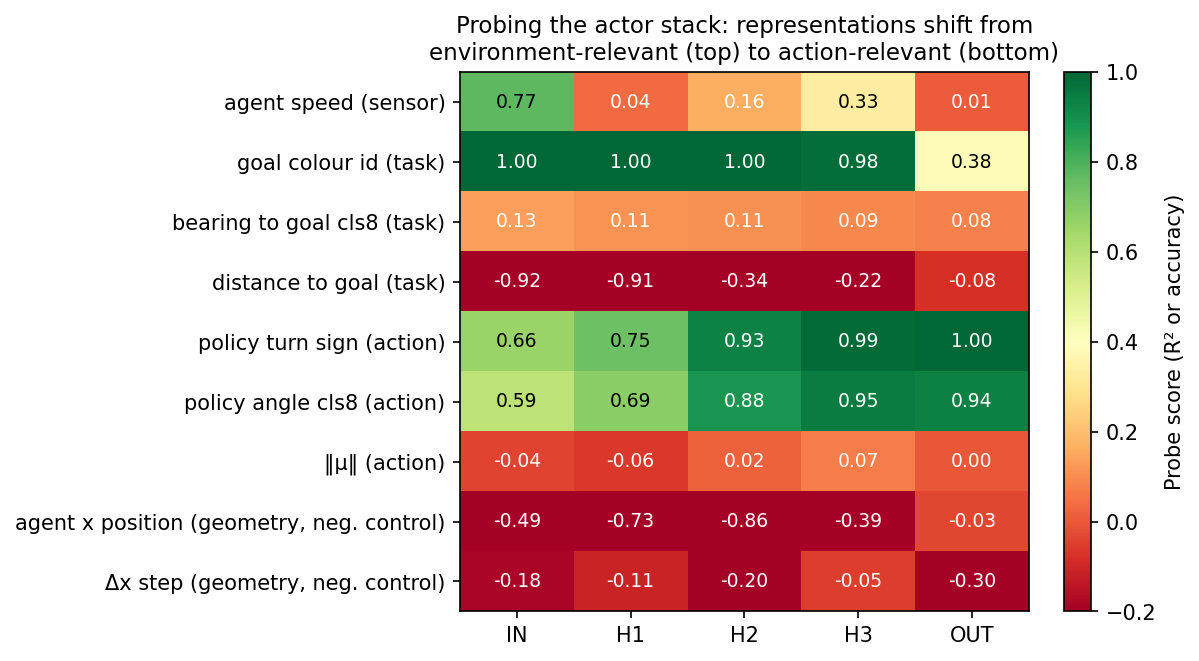
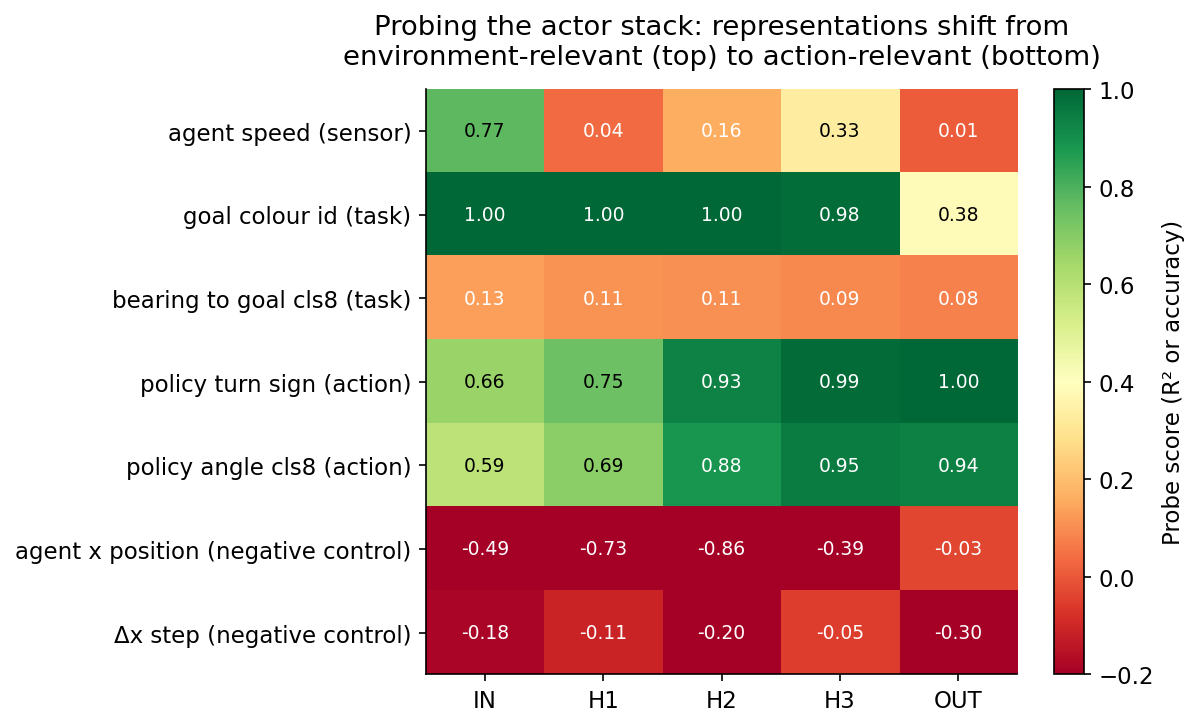
Blogpost V2: structural and writing pass
Structural:
- Reorder §4: steering (§4.1) and goal-switch (§4.2) lead; the
  inconclusive 1D project-out is demoted to §4.3 with a one-paragraph
  caveat instead of three sub-bullets and two figures.
- Add architecture diagram (figure 00) at the end of §1 to anchor §3
  and §4's references to env_emb / ltl_emb / IN / H1-H3 / OUT.
- Promote the bearing-vs-policy-angle finding from a one-line bullet
  in §3.1 to a paragraph + a §6 call-back. (The clearest single piece
  of evidence in the post for the heuristic account.)

Summary rewrite:
- Bullet 1 leads with the headline 50% optimal / 93% success / "43% of
  episodes succeed via the non-optimal path" — the cleanest one-line
  statement of the central finding.
- Bullets reordered to put the new (sprint) findings up top.

Figures:
- Drop ||μ|| and "distance to goal" rows from the actor-stack heatmap;
  both contributed only noise.
- Drop the MEG figure — moved to a single sentence in §7.
- Fix title-overlap on goal-switch figure.
- Move legend out of the bar area on macro-world-model figure.

Writing:
- Add bridge sentence between §2 and §3.
- Reframe §3.2 to lead with the meaningful number (R² ≈ 0.97 at switches)
  rather than the trivial within-link 1.0.
- Acknowledge §6's macro-world-model saturation directly: most matrix
  cells are 1.00, so the test is easy; the unsaturated cells and the
  depth-3 prediction are where it has to work, and it does.
- Tighten §5: remove ambiguous "stays at ~50%"; clarify that all
[…]

Changed region(s): [[0.0, 0.0, 0.9875, 0.9985]]

diff --git a/interpretability/blogpost/scripts/architecture_diagram.py b/interpretability/blogpost/scripts/architecture_diagram.py
@@ -1,0 +1,123 @@
+"""Architecture diagram for the DeepLTL agent.
+
+Boxes-and-arrows: env_obs → env_net → env_emb (64d); LTL_seq → LTL_net (GRU)
+→ ltl_emb (32d); concat → 96-d combined → actor.enc[H1, H2, H3] (each 64d)
+→ μ (2d). Saved as figures/00_architecture.png.
+"""
+import os
+
+import matplotlib.patches as mpatches
+import matplotlib.pyplot as plt
+from matplotlib.patches import FancyArrowPatch
+
+HERE = os.path.dirname(os.path.abspath(__file__))
+FIG_DIR = os.path.abspath(os.path.join(HERE, "..", "figures"))
+
+
+def box(ax, x, y, w, h, label, fc, ec="black", text_fontsize=10, lw=0.8):
+    rect = mpatches.FancyBboxPatch(
+        (x, y), w, h,
+        boxstyle="round,pad=0.02,rounding_size=0.05",
+        linewidth=lw, edgecolor=ec, facecolor=fc,
+    )
+    ax.add_patch(rect)
+    ax.text(x + w / 2, y + h / 2, label,
+            ha="center", va="center", fontsize=text_fontsize)
+
+
+def arrow(ax, x0, y0, x1, y1, text=None, text_offset=(0, 0.07), color="black",
+          lw=1.0):
+    a = FancyArrowPatch((x0, y0), (x1, y1),
+                        arrowstyle="-|>",
+                        mutation_scale=12,
+                        linewidth=lw,
+                        color=color)
+    ax.add_patch(a)
+    if text:
+        ax.text((x0 + x1) / 2 + text_offset[0],
+                (y0 + y1) / 2 + text_offset[1],
+                text, ha="center", va="bottom", fontsize=8.5,
+                color="#444", style="italic")
+
+
+def main():
+    fig, ax = plt.subplots(figsize=(10, 4.4))
+    ax.set_xlim(0, 12)
+    ax.set_ylim(0, 5)
+    ax.set_aspect("equal")
+    ax.axis("off")
+
+    # Colour palette
+    INPUT = "#cfe9f7"
+    NET = "#bee3bd"
+    EMB = "#fff2c8"
+    HID = "#fde2c4"
+    OUT = "#f7d0d0"
+    PLAN = "#e2d5f0"
+
+    # -- Top row: environment branch
+    box(ax, 0.2, 3.5, 1.6, 0.8, "lidar +\nproprio.\n(80-d)", INPUT)
+    box(ax, 2.4, 3.5, 1.4, 0.8, "env_net\n(MLP)", NET)
+    box(ax, 4.4, 3.5, 1.6, 0.8, "env_emb\n(64-d)", EMB)
+    arrow(ax, 1.8, 3.9, 2.4, 3.9)
+    arrow(ax, 3.8, 3.9, 4.4, 3.9)
+
+    # -- Bottom row: LTL branch
+    box(ax, 0.2, 1.7, 1.6, 0.8, "LTL formula\n→ automaton\nstates", INPUT)
+    box(ax, 2.4, 1.7, 1.4, 0.8, "LTL_net\n(DeepSets+GRU)", NET)
+    box(ax, 4.4, 1.7, 1.6, 0.8, "ltl_emb\n(32-d)", EMB)
+    arrow(ax, 1.8, 2.1, 2.4, 2.1)
+    arrow(ax, 3.8, 2.1, 4.4, 2.1)
+
+    # planner brief annotation
+    ax.text(3.1, 1.45, "(includes search over plans)",
+            ha="center", fontsize=8, color="#666", style="italic")
+
+    # -- Concat
+    box(ax, 6.4, 2.6, 1.4, 0.8, "concat\n(96-d)", PLAN)
+    arrow(ax, 6.0, 3.9, 6.4, 3.2, lw=0.9)
+    arrow(ax, 6.0, 2.1, 6.4, 2.85, lw=0.9)
+
+    # -- Actor MLP H1, H2, H3
+    box(ax, 8.2, 2.6, 0.7, 0.8, "H1\n64", HID, text_fontsize=9)
+    box(ax, 9.0, 2.6, 0.7, 0.8, "H2\n64", HID, text_fontsize=9)
+    box(ax, 9.8, 2.6, 0.7, 0.8, "H3\n64", HID, text_fontsize=9)
+    arrow(ax, 7.8, 3.0, 8.2, 3.0, lw=0.9)
+    arrow(ax, 8.9, 3.0, 9.0, 3.0, lw=0.9)
+    arrow(ax, 9.7, 3.0, 9.8, 3.0, lw=0.9)
+    # bracket label "actor.enc"
+    ax.annotate("", xy=(8.2, 2.45), xytext=(10.5, 2.45),
+                arrowprops=dict(arrowstyle="-", lw=0.7, color="#666"))
+    ax.text(9.35, 2.25, "actor.enc (H1 → H2 → H3)",
+            ha="center", fontsize=8.5, color="#444", style="italic")
+
+    # -- Output
+    box(ax, 10.8, 2.6, 1.0, 0.8, "μ (2-d)\naction", OUT, text_fontsize=9)
+    arrow(ax, 10.5, 3.0, 10.8, 3.0, lw=0.9)
+
+    # -- IN label
+    ax.annotate("", xy=(7.0, 2.45), xytext=(7.6, 2.45),
+                arrowprops=dict(arrowstyle="-", lw=0.7, color="#666"))
+    ax.text(7.3, 2.25, "IN", ha="center", fontsize=8.5, color="#444",
+            style="italic")
+
+    # -- Title
+    ax.text(6.0, 4.7, "DeepLTL agent",
+            ha="center", fontsize=12, fontweight="bold")
+
+    # -- Footer note
+    ax.text(6.0, 0.85,
+            "The 'planner output' (`ltl_emb`) jumps at sub-goal switches; "
+            "the actor concatenates it with `env_emb` and unrolls a 3-layer MLP "
+            "to produce the action.",
+            ha="center", fontsize=9, color="#444", wrap=True)
+
+    fig.tight_layout()
+    out_path = os.path.join(FIG_DIR, "00_architecture.png")
+    fig.savefig(out_path, dpi=150, bbox_inches="tight")
+    print(f"wrote {out_path}")
+    plt.close(fig)
+
+
+if __name__ == "__main__":
+    main()

diff --git a/interpretability/probing/actor_stack.py b/interpretability/probing/actor_stack.py
@@ -358,10 +358,8 @@ TARGET_ORDER = [
     "agent_speed",
     "goal_colour_id",
     "bearing_to_goal_cls8",
-    "dist_to_goal",
     "policy_turn_sign",
     "policy_angle_cls8",
-    "policy_mu_norm",
     "agent_x",
     "delta_x",
 ]
@@ -370,10 +368,8 @@ PRETTY = {
     "agent_speed":          "agent speed (sensor)",
     "goal_colour_id":       "goal colour id (task)",
     "bearing_to_goal_cls8": "bearing to goal cls8 (task)",
-    "dist_to_goal":         "distance to goal (task)",
     "policy_turn_sign":     "policy turn sign (action)",
     "policy_angle_cls8":    "policy angle cls8 (action)",
-    "policy_mu_norm":       "‖μ‖ (action)",
     "agent_x":              "agent x position (geometry, neg. control)",
     "delta_x":              "Δx step (geometry, neg. control)",
 }

diff --git a/interpretability/blogpost/BLOGPOST.md b/interpretability/blogpost/BLOGPOST.md
@@ -8,11 +8,10 @@ This is joint work with Jonathan Richens (Google DeepMind); the framing draws on
 
 **Summary.**
 
-- On a custom environment where the myopic and optimal first sub-goal disagree by construction, the agent picks optimally **~50%** of the time, indistinguishable from chance.
-- An apparent above-chance signal (~58%) is fully explained by a **forward-motion bias** (74%, p < 0.0001). With orientation controlled, the residual disappears.
-- The chained-distance feature — what a planning agent would compute — is not linearly encoded under proper held-out evaluation (probe R² is *negative* on episode-disjoint splits). Only self-centric features generalise (R² ≈ 0.13 – 0.26).
-- Activation-level interventions are consistent: 1D ablation of either probe direction (chained or agent) shifts the optimal-choice rate by ≈ 10 percentage points toward more myopic behaviour, with task success preserved at ≈ 88%. Sufficiency sweeps along the chained-distance direction are flat. The policy is locally robust to single-direction perturbations.
-- Training interventions designed to induce planning — auxiliary chained-distance loss, transition loss, lower discount, two-step-heavy curriculum — do not move the optimality rate. The best stable variant achieves 85% task success at 52% optimal (p = 0.76).
+- On a custom environment where the myopic and optimal first sub-goal disagree by construction, the agent picks optimally **~50%** of the time. Task success on the same layouts is **93%**: about **43% of episodes succeed via the non-optimal path**. The above-chance signal we initially saw (58%) is fully explained by a **forward-motion bias**; when orientation is controlled, the residual disappears.
+- Probing the actor stack shows representations are progressively reshaped from environment-relevant to action-relevant: sensors fade, policy-aligned features rise, the goal-colour identifier is preserved through `H3` at 98% accuracy, and the agent's *bearing to the goal* is at chance throughout. There is no linearly decodable metric map and no clean self-centric goal-direction feature.
+- The goal pointer is decodable at 100% in `H3`, but **adding the probe direction at the actor MLP changes behaviour in 1% of trials**; replacing the planner's output (the LTL embedding) **redirects the agent in 87% of trials**. The actionable copy of the goal lives at the planner-actor bottleneck, not in the actor's distributed redundant copy. Probes find presence, not use.
+- Training interventions designed to induce planning — auxiliary chained-distance loss, transition loss, lower discount, two-step-heavy curriculum — do not move the optimality rate. Auxiliary supervision *does* raise the chained-distance probe R²; behaviour does not follow.
 
 The evidence converges on a heuristic account: forward motion, then closest relevant zone, then reactive obstacle avoidance — a stack that produces 95% completion on a completion-scored benchmark without any internal world model.
 
@@ -20,11 +19,13 @@ The evidence converges on a heuristic account: forward motion, then closest rele
 
 ## 1. The setup
 
-DeepLTL has three modules. An **LTL encoder** compiles the formula into a deterministic-Büchi automaton, summarised by a small GRU over its states. An **environment encoder** is an MLP over lidar observations. A **policy head** concatenates the two and outputs continuous actions for a point robot in the Zone environment — a flat arena of coloured circular zones.
+DeepLTL has three modules. An **LTL encoder** compiles the formula into a deterministic-Büchi automaton, summarised by a small GRU over its states. An **environment encoder** is an MLP over lidar observations. A **policy head** (called `actor.enc` in the codebase, a 3-layer MLP) concatenates the two and outputs continuous actions for a point robot in the Zone environment — a flat arena of coloured circular zones.
+
+![Architecture of the DeepLTL agent. The LTL formula is compiled into automaton states and embedded by a DeepSets+GRU planner; lidar observations are embedded by an MLP. The two embeddings are concatenated to form the 96-d input (`IN`) to a 3-layer actor MLP (`H1`, `H2`, `H3`), which produces the policy mean μ. The post probes and intervenes at every named layer.](figures/00_architecture.png)
 
 The cleanest test of planning is `F blue THEN F green` with *two* candidate blue zones. A planner picks the blue zone that leaves less distance to green. A reactive "closest zone" policy picks whichever blue is closer right now. The paper's Figure 1 shows the former.
 
-I built `PointLtl2-v0.optvar`, a custom environment in which this divergence is enforced at every reset: the closer blue zone is always the *worse* one for total path length.
+I built `PointLtl2-v0.optvar`, a small modification of the paper's Zone env in which this divergence is enforced at every reset: the closer blue zone is always the *worse* one for total path length. The agent and physics are otherwise unchanged from the paper's setup.
 
 ![The `F blue THEN F green` task, schematically. The two blue zones are candidate intermediates: the closer one leaves a longer onward path to green. A planner picks the farther one; a reactive "closest zone" policy picks the nearer one.](figures/01_setup_map.png)
 
@@ -81,6 +82,8 @@ I repeated the optimality test with orientation controlled: at each reset the ag
 
 The CI contains 50%. The spatial imbalance vanishes exactly, because the imbalance was never about left/right — it was about forward. With both forward-motion and closest-zone cues neutralised, the agent's choice is statistically indistinguishable from random.
 
+The behavioural picture is settled: at chance. Two natural follow-up questions are *what* the agent encodes internally and *what* it actually uses. The next two sections take those in turn.
+
 ---
 
 ## 3. Representations: what the agent encodes
@@ -96,24 +99,25 @@ A few things stand out.
 - **Sensors fade.** `agent_speed` is well-encoded at the input (R² ≈ 0.77) and fades to ≈ 0 by the output. The MLP discards raw sensor information as it computes its action.
 - **Policy-aligned features rise.** Whether the agent is about to turn left or right is decodable at 66% accuracy at `IN`, 100% at `OUT`. The 8-class action-direction lift is similarly steep (59% → 96%).
 - **The goal-colour identifier is preserved with near-perfect accuracy through `H3` (≥ 98%), then drops sharply at `OUT` (38%).** The actor carries the goal pointer all the way to the last hidden layer and discards it once the action is committed.
-- **Self-centric *bearing* to the goal zone is at chance (≈ 10% on 8 classes) at every layer.** This is in spite of the agent's eventual *policy angle* being decoded near-perfectly. The agent is not computing its action direction by reading off a clean goal-bearing feature; whatever drives the action direction is computed otherwise — perhaps a obstacle-modulated heading, or a learned mapping that is non-linear in this representation.
-- **Geometry features are not encoded.** Absolute agent position and one-step Δx have negative R² across every layer. The actor does not store a metric map.
+- **Geometry features are not linearly decodable.** Absolute agent position and one-step Δx have negative R² across every layer. The actor does not store a metric map of the environment.
 
 The shape of the gradient — environment-relevant features at the top, action-relevant features at the bottom, no metric map at any depth — is the picture of an *egocentric, reactive controller* whose representations are progressively shaped toward action.
 
+**One row deserves attention on its own.** The 8-class self-centric *bearing to the goal zone* is at chance (≈ 10%) at every layer of the actor. The agent's eventual *policy angle* — the direction it is about to move in — is decodable at 95% by `H3`. The two facts together rule out the simplest mechanistic story for how the agent moves toward a goal: it is *not* the case that the network decodes bearing-to-goal into a clean linear feature and then acts on it. Whatever computation produces the policy direction does not pass through "bearing to goal" as an intermediate; it is either non-linear in this representation, or it is something other than goal-bearing — an obstacle-modulated heading, say, or a learned routine that hits goals as a side-effect of moving in some currently-attractive direction. (We will return to this in §6.)
+
 ### 3.2 The LTL planner's output is a stable state machine
 
-The DeepLTL architecture has a small GRU on top of the deterministic-Büchi automaton's state sequence. At every step the network re-encodes the current LTL plan from scratch and produces a 32-d "LTL embedding". On a 2-step task `F a THEN F b`, this embedding is *constant* during pursuit of `a`, then jumps when the LDBA transitions to pursuing `b`.
+DeepLTL has a small GRU on top of the deterministic-Büchi automaton's state sequence. At every step the network re-encodes the current LTL plan from scratch and produces a 32-d "LTL embedding". On a 2-step task `F a THEN F b`, this embedding is *constant* during pursuit of `a`, then jumps when the LDBA transitions to pursuing `b`.
 
-How predictable is its evolution from the combined embedding `h_t` alone?
+The interesting question isn't how predictable the embedding is during pursuit — it's flat by construction — but whether the rare *jumps* are predictable from the combined embedding `h_t` alone. They are: R² = 0.97 across goal-switch steps, with no additional signal from the action.
 
-![LTL-embedding dynamics. During pursuit, Δltl ≈ 0 — the embedding is locked. At the rare goal-switch step, the jump is highly predictable from `h_t` (R² ≈ 0.97), and adding the action gives no additional signal.](figures/14_gru_dynamics.png)
+![LTL-embedding dynamics. During pursuit, Δltl ≈ 0 by construction — the planner output is locked while the agent chases the current sub-goal. At a goal-switch step, the embedding jumps to a colour-dependent vector that is linearly predictable from `h_t` (R² ≈ 0.97). Action gives no extra information.](figures/14_gru_dynamics.png)
 
-Within a sub-goal pursuit, Δltl is exactly zero, so the linear probe's R² is trivially 1. At the goal switch, Δltl jumps to a specific colour-dependent vector, and a linear function of `h_t` predicts the jump with R² ≈ 0.97 (action gives no extra information). The picture is a near-linear state machine that retargets at switches, very much in line with how the architecture is set up by construction.
+The picture is a near-linear state machine that retargets at switches: knowing the current state of the world is enough to predict the next planner output, even right at the moment it changes.
 
-### 3.3 The chained-distance feature is not actually encoded
+### 3.3 Chained distance is not linearly decodable on held-out layouts
 
-The actor encodes its own goal pointer, lidar readings, and a developing action. Does it also encode the *path-level* feature a planner would need — the chained distance from a candidate intermediate zone to the goal zone?
+The actor's hidden states linearly encode the goal pointer, the agent's lidar readings, and a developing action. Are they also able to express the *path-level* feature a planner would need — the chained distance from a candidate intermediate zone to the goal zone?
 
 A first pass with random train/test splits across states gave a familiar result: self-centric features at R² ≈ 0.55, chained features at R² ≈ 0.22 — present but weak, consistent with weak planning. But that random split has a pitfall. Zone positions are constant within an episode, so any feature defined by the layout (`d_int_to_goal`, `total_via_int`, `optimality_gap`) is constant across all of an episode's states. A random split lets the probe see *some* states from a layout in training and predict *others* from the same layout at test time — recognising the episode rather than computing the feature.
 
@@ -133,7 +137,7 @@ The value function shows the same pattern. Holding the first sub-goal fixed and 
 
 ## 4. Causal: what the agent uses
 
-Linear probes establish presence, not use. The actor-stack analysis showed that the goal colour is decodable at near-perfect accuracy through `H3`. Does that mean the goal is *steerable* by perturbing those activations?
+Linear probes establish presence, not use. §3.1 showed that the goal colour is decodable at near-perfect accuracy through the actor's `H3` layer. Does that mean the goal is *steerable* by perturbing those activations? And what about the goal pointer at the planner-actor boundary?
 
 ### 4.1 Subgoal steering: the goal lives at the planner output, not in the actor MLP
 
@@ -150,46 +154,9 @@ The goal colour is decodable in the actor MLP with perfect accuracy, but adding 
 
 This is a clean example of probes establishing presence, not use.
 
-### 4.2 Project-out and sufficiency on chained distance
+### 4.2 Goal-switch interventions: the agent re-locks from observations
 
-A second causal test, focused not on the goal pointer but on the chained-distance feature explored in §3.3. I ran two activation-level interventions on the combined embedding (96 dims).
-
-**Project-out.** For each probe with direction `w` (unit-normed), at every forward pass replace `h ← h − (w·h) w`. This removes precisely the linear component the probe reads.
-
-**Sufficiency.** Add `α · ŵ` for several values of α and observe behavioural drift.
-
-The two probes I have are:
-
-- `d_agent_to_int` — self-centric, episode-disjoint R² ≈ 0.55. *Positive control.*
-- `d_int_to_goal` — chained-distance, episode-disjoint R² < 0. The probe direction exists but does not track the feature on held-out layouts.
-
-Each condition runs 100 contested `optvar` layouts with identical seeds for a paired comparison.
-
-| Condition | Optimal-choice rate | Task success |
-|---|---|---|
-| Baseline (no intervention) | **53%** | 88% |
-| Ablate chained-distance direction | 42% | 89% |
-| Ablate agent-distance direction *(positive control)* | 44% | 88% |
-
-![Project-out: 1D ablations of either probe direction produce similar mild shifts (~10 percentage points) toward myopic behaviour; task success stays at ~88% across all conditions.](figures/11_causal_ablation.png)
-
-The pattern is more nuanced than I expected. Both ablations produce a similar small shift toward more myopic behaviour (≈ 10 percentage points). Task success is preserved across all conditions. The agent-distance probe was meant to be a positive control where the ablation would clearly degrade behaviour — instead, both ablations look alike. The sufficiency sweep is essentially flat across α ∈ {−3, −1, 0, +1, +3}:
-
-![Sufficiency sweep along the chained-distance direction. Pushing along ŵ_chain barely moves the optimal-choice rate; task success is unchanged.](figures/12_causal_sufficiency.png)
-
-Three things to take away:
-
-1. **The policy is robust to 1D perturbations.** Removing any single probe direction in a 96-dim embedding leaves the bulk of the representation intact. Whatever the policy reads, it does not read it through a single direction.
-
-2. **No direction-specific evidence for chained-distance use.** The chained-distance ablation looks like the agent-distance ablation, and the sufficiency sweep is flat. There is no positive evidence that the chained-distance probe direction is causally important for behaviour. This is consistent with the probing finding (the direction does not even encode the feature on held-out layouts) but does not rule out the feature being computed elsewhere or non-linearly.
-
-3. **A stronger intervention would be informative.** Multi-dimensional subspace projection or larger sufficiency steps could push the network harder; with a 96-dim embedding, removing a single 1D component evidently does not. I leave that for a follow-up.
-
-The methodological caveat is unchanged: high probe R² is not, by itself, evidence that a feature is driving behaviour, and even a clean activation-level intervention requires care in scope.
-
-### 4.3 Goal-switch interventions: the agent re-locks from observations
-
-A separate causal test, focused on what happens at the moment a 2-step task transitions from `F a` to `F b`. If the GRU hidden state at the switch is doing important work — bridging from "pursued a" to "pursue b" — then perturbing the LTL embedding *exactly* at the switch step should hurt success. I ran four conditions on `F a THEN F b` tasks (80 episodes each):
+What happens at the moment a 2-step task transitions from `F a` to `F b`? If the GRU hidden state at the switch is doing important work — bridging from "pursued a" to "pursue b" — then perturbing the LTL embedding *exactly* at the switch step should hurt success. I ran four conditions on `F a THEN F b` tasks (80 episodes each):
 
 | Condition | Task success |
 |---|---|
@@ -200,9 +167,17 @@ A separate causal test, focused on what happens at the moment a 2-step task tran
 
 ![Goal-switch interventions on `F a THEN F b` tasks. Replacing the LTL embedding with zeros at the switch step (or for three steps) only mildly degrades task success.](figures/18_goal_switch.png)
 
-Task success is preserved across all conditions. Even three consecutive steps of zeroed-out LTL embedding only drops success by 6 percentage points. The agent re-locks on the new sub-goal from observations and the planner's *next* timestep output — the embedding at the precise switch step is not load-bearing.
+Task success is preserved across all conditions. Even three consecutive steps of zeroed-out LTL embedding only drops success by 6 percentage points. The agent re-locks on the new sub-goal from observations and the planner's *next* timestep output — the embedding at the precise switch step is not load-bearing. There is no "memory" between steps that has to be intact at the switch; the planner's output one step later, combined with current observations, is enough.
 
-This complements the steering result: the planner output is the actionable goal pointer, but a one-step interruption of that pointer is recoverable from the next step's planner output plus current observations. There is no "memory" stored between steps that has to be intact at the switch.
+This complements §4.1: the planner's output is the actionable goal pointer, and even a brief interruption of it is recoverable.
+
+### 4.3 A 1D activation ablation that didn't work
+
+A separate test, narrower in target. I trained probes on the combined embedding for two features — `d_agent_to_int` (self-centric, episode-disjoint R² ≈ 0.55) and `d_int_to_goal` (chained, episode-disjoint R² < 0) — and tried project-out and sufficiency interventions along each probe direction.
+
+The result was inconclusive. 1D ablation of *either* direction produced a similar ~10pp shift toward myopic behaviour with task success preserved at ~88%. The sufficiency sweep along the chained-distance direction was essentially flat. With a 96-dim embedding, removing a single 1D component is too weak a perturbation to test direction-specific use — the policy is locally robust to single-direction ablations regardless of which one. Multi-dimensional subspace projection would be the natural follow-up; the §4.1 steering result is the cleaner test of the same general question.
+
+![Project-out: 1D ablations of either probe direction produce similar mild shifts (~10 percentage points) toward myopic behaviour; task success stays at ~88% across all conditions. The methodology is too coarse to be informative on this question.](figures/11_causal_ablation.png)
 
 ---
 
@@ -227,9 +202,9 @@ I ran the corresponding sweep:
 
 The pure two-step run at γ = 0.95 collapses. Of the curriculum/discount variants, only `opt_d099_mixed` reaches task success close to baseline (85% vs. paper's 91 – 95%), and its optimality rate is 52%, p = 0.76.
 
-The most informative observation in the sweep is the auxiliary-loss column. Chained-distance probe R² (random-split, used here for comparability with earlier analyses; the corresponding episode-disjoint R² is below zero throughout) rises from 0.31 to 0.41 — a real increase in probe-decodable content. Optimal-choice rate stays at ~50%. The policy has acquired more of the information that planning would require, and does not use it.
+The most informative observation is the auxiliary-loss column. The chained-distance probe R² (random-split, used here for comparability with earlier analyses; the corresponding episode-disjoint R² is below zero throughout) rises from 0.31 to 0.41 — a real increase in probe-decodable content. Behavioural optimality across all variants in the table sits at ~50%. The network has acquired more of the information that planning would require, and the policy does not use it.
 
-Together with the project-out result, this gives the same answer from two directions: training the network to make the chained-distance feature more readable does not change behaviour, and removing the readable component from activations does not change behaviour either. Representation and policy have separated.
+This pairs with the steering result in §4.1: whether the chained-distance feature is *added* by training or the goal pointer is *removed* from the actor MLP, behaviour does not follow the representation. Representation and policy have separated.
 
 ---
 
@@ -244,19 +219,21 @@ The behaviour I observe is consistent with a small stack of reactive rules, appl
 
 This stack accounts for 95% success on a benchmark that scores completion, and it accounts for chance-level sub-goal selection on a benchmark that scores planning specifically. The two are not contradictory — completion is robust to bad first commitments, given enough lidar and continuous control to recover.
 
-The agent's behaviour, viewed colour-by-colour, is well-summarised by a 4×4 stochastic matrix `P(reach next | reached current)`. I estimated this matrix from 12 episodes per pair on `F a THEN F b` tasks, then used it to predict success on length-2 and length-3 chains.
+The actor-stack analysis (§3.1) rules out a tidier alternative. If the agent acted by computing a self-centric "bearing to goal" and rotating to face it, that bearing should be linearly decodable somewhere in the actor — and it isn't, at any layer. What *is* linearly decodable is the goal-colour identifier and the network's own about-to-act direction. The most parsimonious reading is that the network learned a "this colour is currently attractive" → "rotate-and-go" routine that is largely independent of explicit relative-direction reasoning.
 
-![Behavioural macro world model. Left: pair-success matrix `P(reach next | reached current)`. Right: a Markov-chain prediction (just multiplying matrix entries) gets within 0.03 of empirical multi-step success on depth 1, 2, 3.](figures/15_macro_world_model.png)
+One implication of the heuristic account is that the agent's behaviour should be summarisable at the colour level by a Markov chain `P(reach next | reached current)` — without reference to anything inside the network. I estimated this 4×4 matrix from 12 episodes per pair on `F a THEN F b` tasks, then used it to predict success on length-2 and length-3 chains.
 
-The prediction matches the empirical multi-step success within MAE ≈ 0.02 – 0.03. The agent's behaviour can be summarised at the colour level by an external Markov chain — a *behavioural* world model. Critically, this does not imply that the agent has internalised this matrix as a mental model. The fit just says the macro structure is recoverable from rollouts. Combined with the absence of a metric map in the activations (§3.1), the natural reading is: the network executes a near-Markov colour policy, and any "world model" lives in the analyst's notebook, not in the network.
+![Behavioural macro world model. Left: the pair-success matrix `P(reach next | reached current)`. Right: a Markov-chain prediction (multiplying matrix entries) is within MAE ≈ 0.03 of empirical multi-step success at depth 1, 2, 3.](figures/15_macro_world_model.png)
+
+The prediction matches empirical multi-step success within MAE ≈ 0.02 – 0.03. Most matrix cells sit at 1.00 — the agent reliably succeeds on most pairs — so the test is a relatively easy one: a constant 1 would also predict reasonably. The cells that aren't saturated (`green→blue` and `green→magenta` at 0.92, `yellow→blue` at 0.92) are where the prediction has to work, and the depth-3 prediction (0.96 vs. empirical 0.93) is where it would most plausibly fail; it doesn't.
+
+The point isn't that the agent has internalised this matrix — it almost certainly hasn't. The point is that the agent's macro structure is *recoverable from rollouts alone*. Combined with the absence of a linearly decodable metric map in the activations (§3.1), the natural reading is that the network executes a near-Markov colour policy, and any "world model" lives in the analyst's notebook, not in the network.
 
 ---
 
 ## 7. Scope
 
-The paper's task-success numbers reproduce. As an additional sanity check, the agent's success rate on single-colour tasks (`F c` for c ∈ {blue, green, yellow, magenta}) averages 98% versus 0% for a uniform-random policy on the same layouts, giving a [Maximum Entropy Goal-directedness](https://arxiv.org/abs/2310.07229) score of GD ≈ 3.2 averaged across goals. Whatever the agent is doing internally, it is reliably goal-conditioned at the behavioural level.
-
-The narrower claim this post pushes back on is the mechanistic one: that sub-goal selection is driven by reasoning about onward paths. Mathias concurs that the optimality rate is approximately 50%; remaining disagreement, if any, concerns how surprising this should be considered.
+The paper's task-success numbers reproduce. The agent is reliably goal-conditioned at the behavioural level: across single-colour tasks `F c`, success is 98% trained vs. 0% under a uniform-random policy on the same layouts ([Maximum Entropy Goal-directedness](https://arxiv.org/abs/2310.07229) ≈ 3.2 averaged across colours). The post is not arguing against goal-conditioning as such — it is arguing against the *mechanistic* claim that sub-goal selection is driven by reasoning over onward paths. Mathias concurs that the optimality rate is approximately 50%; remaining disagreement, if any, concerns how surprising this should be considered.
 
 A few caveats:
 
@@ -264,6 +241,7 @@ A few caveats:
 - Sample sizes are moderate (N = 80 – 100 per behavioural cell). Borderline results would benefit from larger N.
 - The behavioural evidence concerns one task family, `F A THEN F B` and its safety/equidistant variants. Tasks with richer temporal structure may interact with a heuristic policy differently.
 - Confounds have recurred. "Spatial bias" turned out to be orientation bias; "weak chained-distance encoding" turned out to be within-episode leak. There may be further confounds I have not yet identified.
+- The paper's Figure 1 displays a single configuration in which the agent does pick the optimal blue zone. Across 100 randomly varied configurations of the same task family, the agent picks optimally about half the time. The post's quantitative claim is the average; it does not contest that the figure depicts a real successful trajectory.
 
 The broader point worth stating plainly: high task success is not, by itself, evidence of planning, even on tasks that would in principle require it. A sufficiently rich reactive policy, combined with continuous control, lidar-based avoidance, and a benchmark that scores completion rather than optimality, can reach 95% success without instantiating anything that resembles a world model.
 
@@ -275,4 +253,14 @@ The broader point worth stating plainly: high task success is not, by itself, ev
 - Jackermeier & Abate, [*DeepLTL*](https://openreview.net/forum?id=9pW2J49flQ), ICLR 2025.
 - Richens et al., [*General Agents Need World Models*](https://arxiv.org/abs/2506.01622), 2025.
 
-To reproduce the central finding: load `fresh_baseline`, run `interpretability/behavioural/controlled_orientation_test.py` for N = 100 episodes of `F blue THEN F green` on `PointLtl2-v0.opteq`. Expected: 50% ± a few percent, with a CI that comfortably contains chance. A substantial deviation from that figure would be informative.
+Each result in the post is produced by a single script in the repo. The most direct reproductions:
+
+- **§2 (behaviour at chance):** `interpretability/behavioural/controlled_orientation_test.py` — load `fresh_baseline`, N = 100 on `PointLtl2-v0.opteq`. Expected: ~50% optimal, CI containing chance.
+- **§3.1 (actor-stack flow):** `interpretability/probing/actor_stack.py`. Outputs `13_actor_stack.png`.
+- **§3.2 (LTL dynamics):** `interpretability/probing/gru_dynamics.py`.
+- **§3.3 (honest-split probing):** `interpretability/probing/honest_split_comparison.py`.
+- **§4.1 (subgoal steering):** `interpretability/causal/subgoal_steering.py`.
+- **§4.2 (goal-switch interventions):** `interpretability/causal/goal_switch_intervene.py`.
+- **§6 (macro world model):** `interpretability/behavioural/macro_world_model.py`.
+
+A substantial deviation from any of the headline numbers would be informative.
